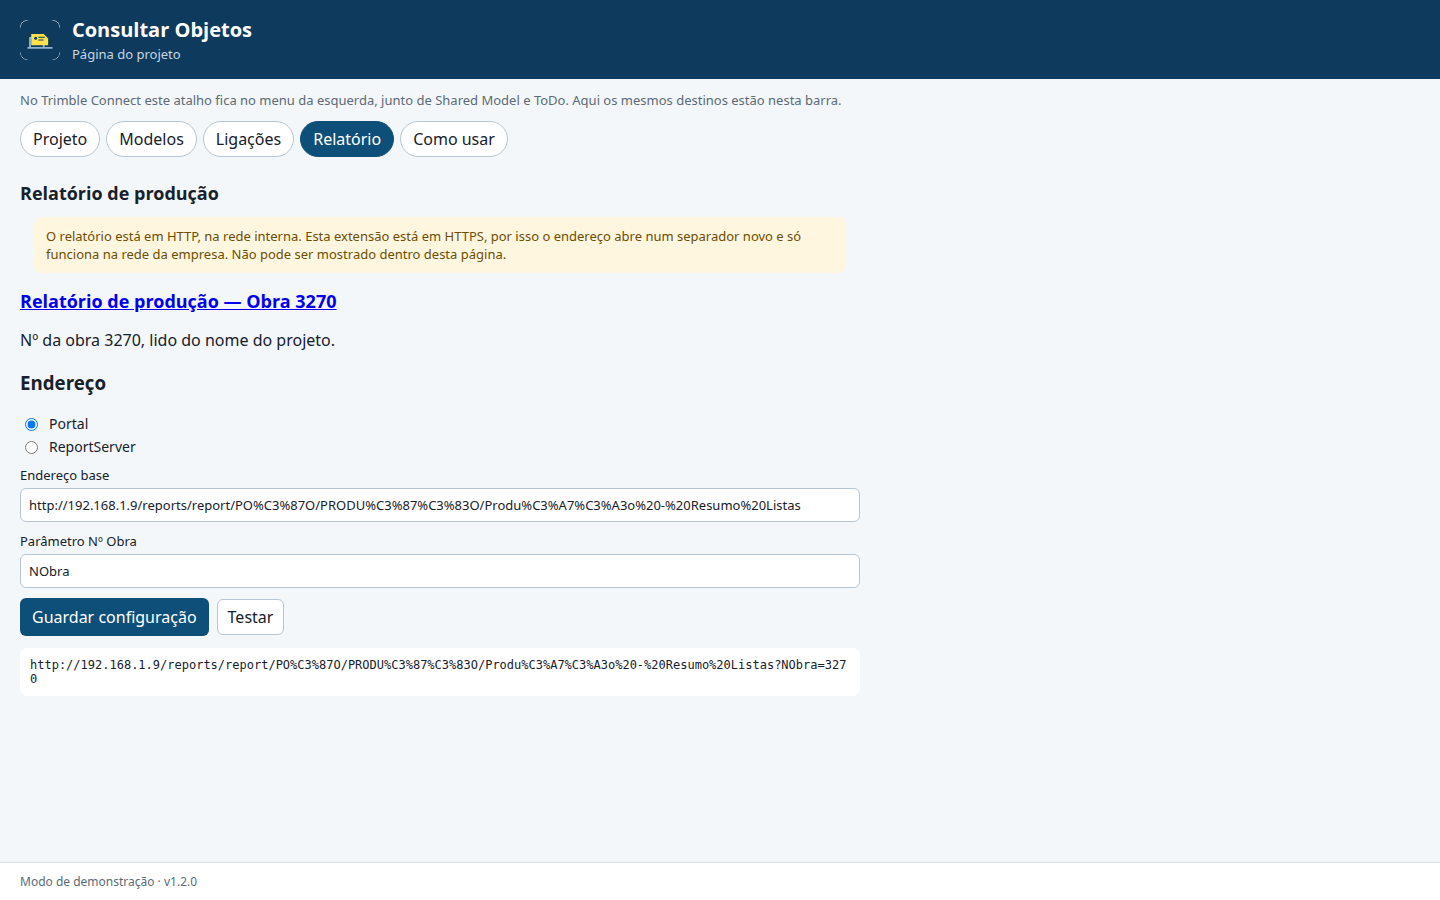
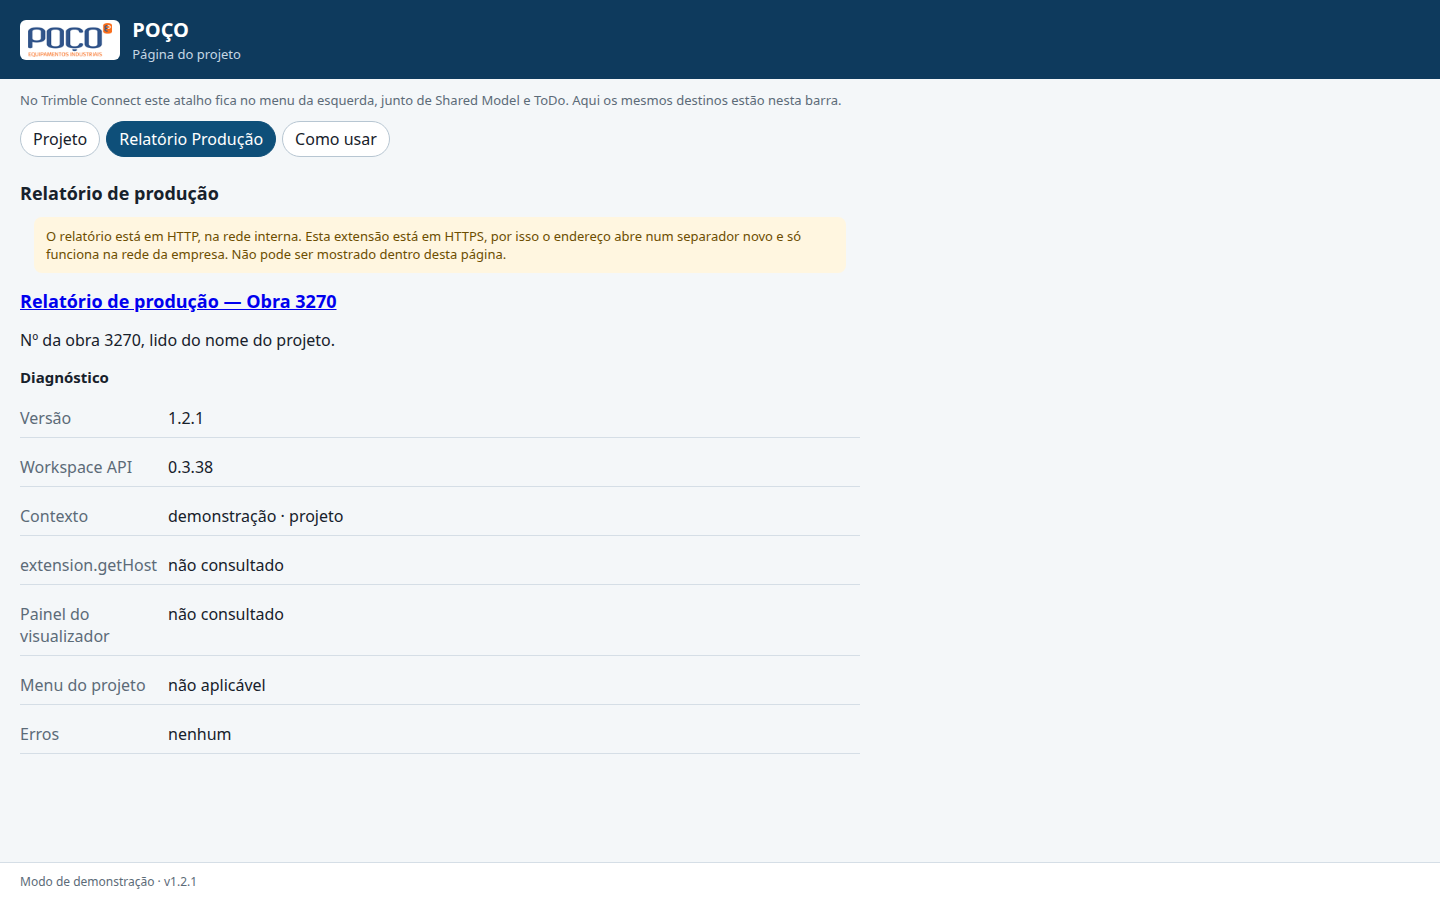
Refresh screenshots for POÇO and the property search.
The project page shows the logo, Relatório Produção without the address form, and the 3D panel shows a search for HEA200.

diff --git a/README.md b/README.md
@@ -88,7 +88,7 @@ O atalho chama-se **Relatório de produção — Obra 3270** e abre noutro separ
 
 O relatório está em HTTP na rede interna (`192.168.1.9`). A extensão está em HTTPS no GitHub Pages. O browser não deixa meter essa página dentro da extensão (conteúdo misto), por isso o atalho tem de abrir num separador novo e só funciona na rede da empresa.
 
-![Relatório de produção da obra 3270, com o endereço gerado e o parâmetro NObra](docs/imagens/14-relatorio-producao.png)
+![Relatório Produção da obra 3270, sem o formulário de endereço](docs/imagens/14-relatorio-producao.png)
 
 ### Como usar o visualizador
 
